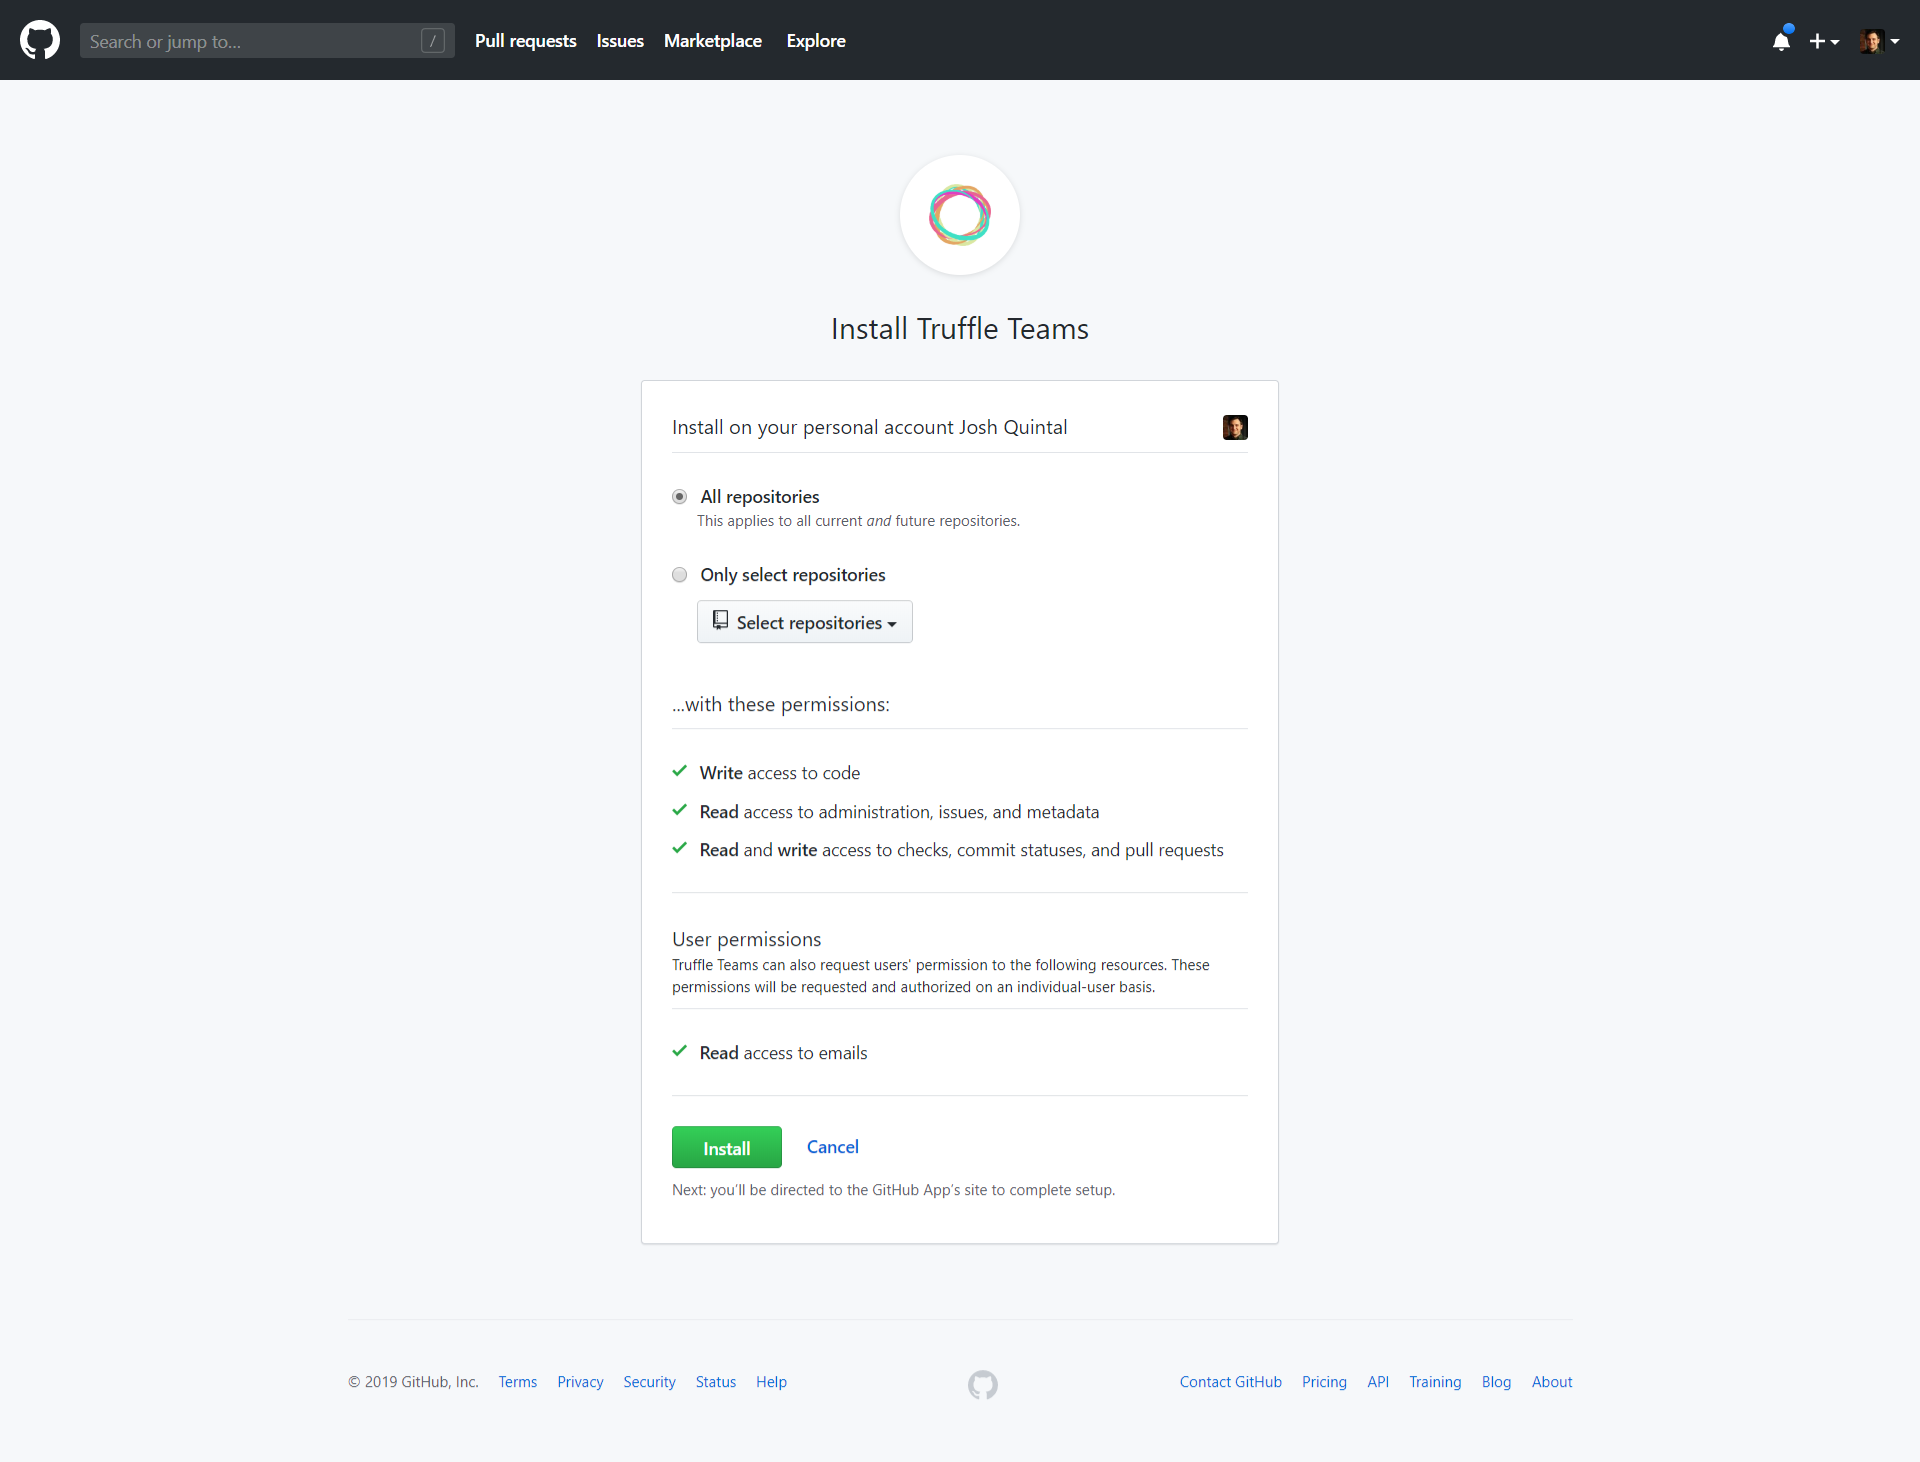
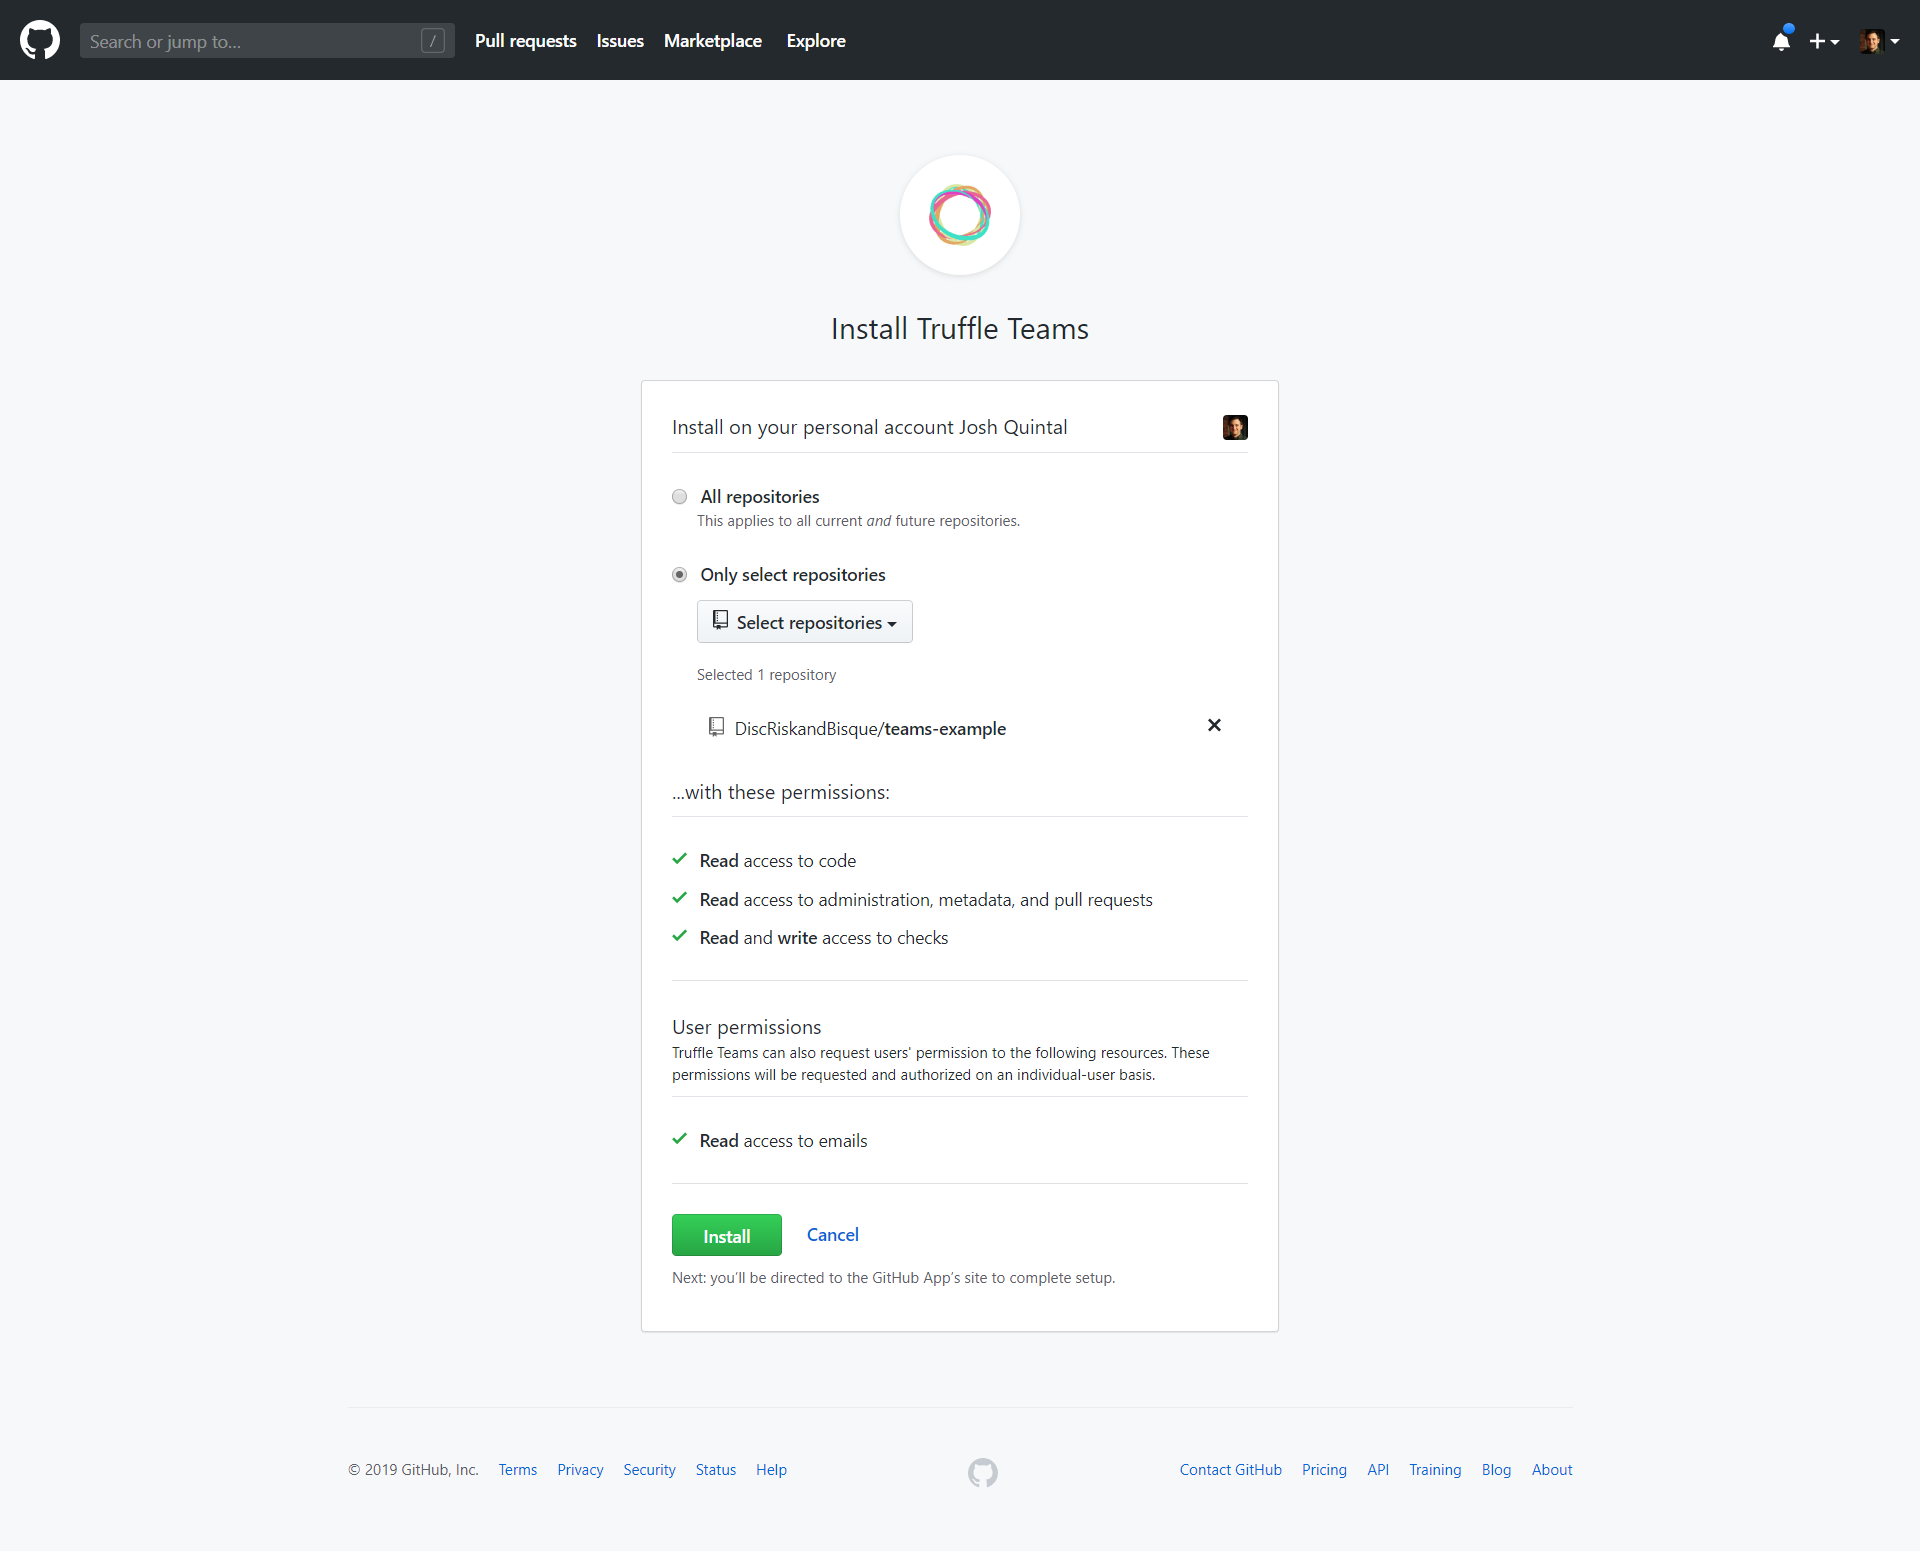
Updated permissions page

diff --git a/src/sass/pages/docs.scss b/src/sass/pages/docs.scss
@@ -192,6 +192,15 @@
   img {
     display: block;
     margin: 2rem auto;
+    -webkit-box-shadow: 0px 5px 10px 3px rgba(0,0,0,0.25);
+    -moz-box-shadow: 0px 5px 10px 3px rgba(0,0,0,0.25);
+    box-shadow: 0px 5px 10px 3px rgba(0,0,0,0.25);
+  }
+
+  .banner-trufflecon img {
+    -webkit-box-shadow: none;
+    -moz-box-shadow: none;
+    box-shadow: none;
   }
 
   .img-caption {

diff --git a/src/docs/teams/reference/permissions-disclosure.md b/src/docs/teams/reference/permissions-disclosure.md
@@ -8,15 +8,15 @@ During installation Truffle Teams asks for various permissions. We respect your 
 
 ## Repository Permissions
 
-### **Write** access to code
+### **Read** access to code
 
-GitHub defines this vaguely on signup by using "code", but we're actually only asking for read access to checks so we can display Truffle Teams' build status inline on GitHub.
+GitHub defines this vaguely on signup by using "code", but we're only asking for read access to checks so we can display Truffle Teams' build status inline on GitHub.
 
-### **Read** access to administration, issues, and metadata
+### **Read** access to administration, metadata, and pull requests
 
 
 
-### **Read** access to checks, commit statuses, and pull requests
+### **Read** and **Write** access to checks
 
 Reading commit statuses and pull requests allows Truffle Teams to trigger builds automatically on those events. We use read access to checks so we can have a full event loop for changing the build status display on GitHub's inline checks (see [Write access to code]() above).
 
